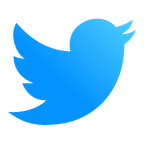
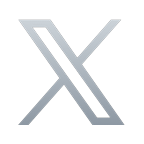
feat(override): 分流组 flatten 对齐 SC + 图标同步至最新
子节点（flatten 结果）对齐：
- Spotify: 补 Other Regions，改为 United States + Proxy
- Anthropic: 改为 Taiwan + Proxy（对齐 SC 的 Claude）
- AI / Emby: 统一为 Proxy 单成员口径（对齐 SC 的无首选地区组）
- 现在每个应用组展开均为全节点，与 SC 的 Proxy 展开结果一致

图标同步（从 Self-Configuration 复制）：
- 更新 4 个过时图标: Twitter / YouTubeMusic / claude-color / openai
- 新增 Twitter-old.png
- Apple Update 图标改用 Apple.png（与 SC 一致）

diff --git a/override/my_clash.js b/override/my_clash.js
@@ -128,13 +128,15 @@ function main(config) {
     {
       name: "Anthropic",
       type: "select",
-      proxies: ["Taiwan", "Select"],
+      // 对齐 SC 的 Claude：首选台湾，其后回落到 Proxy（展开即全部节点）
+      proxies: ["Taiwan", "Proxy"],
       icon: ICON + "claude-color.png",
     },
     {
       name: "AI",
       type: "select",
-      proxies: ["Taiwan", "Select", "Japan", "Singapore", "United States", "Proxy", "Smart"],
+      // 对齐 SC 的 AI：无首选地区，直接由 Proxy 展开
+      proxies: ["Proxy"],
       icon: ICON + "grok.png",
     },
     {
@@ -147,7 +149,8 @@ function main(config) {
     {
       name: "Emby",
       type: "select",
-      proxies: ["Select", "Smart", "United States", "Taiwan"],
+      // 对齐 SC 的 Emby：无首选地区，直接由 Proxy 展开
+      proxies: ["Proxy"],
       icon: ICON + "Emby.png",
     },
 
@@ -175,7 +178,8 @@ function main(config) {
     {
       name: "Spotify",
       type: "select",
-      proxies: ["United States", "Hong Kong", "Taiwan", "Japan", "Singapore"],
+      // 与其它应用组保持一致口径：首选地区 + Proxy（含 Other Regions）
+      proxies: ["United States", "Proxy"],
       icon: ICON + "Spotify.png",
     },
 
@@ -196,7 +200,7 @@ function main(config) {
       name: "Apple Update",
       type: "select",
       proxies: ["REJECT", "PASS", "DIRECT"],
-      icon: ICON + "AppleUpdate.png",
+      icon: ICON + "Apple.png",
     },
 
     {
